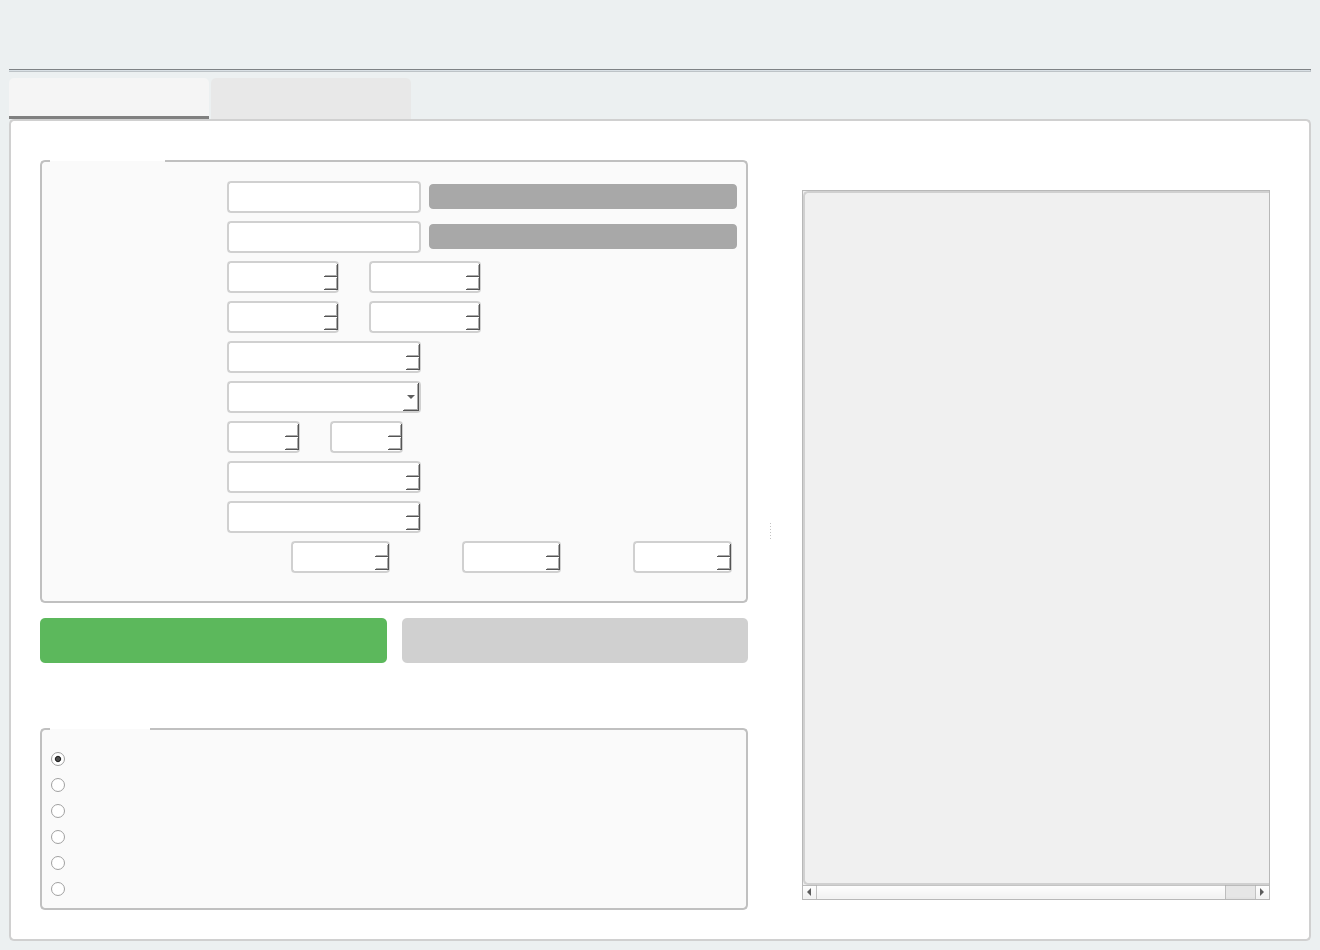
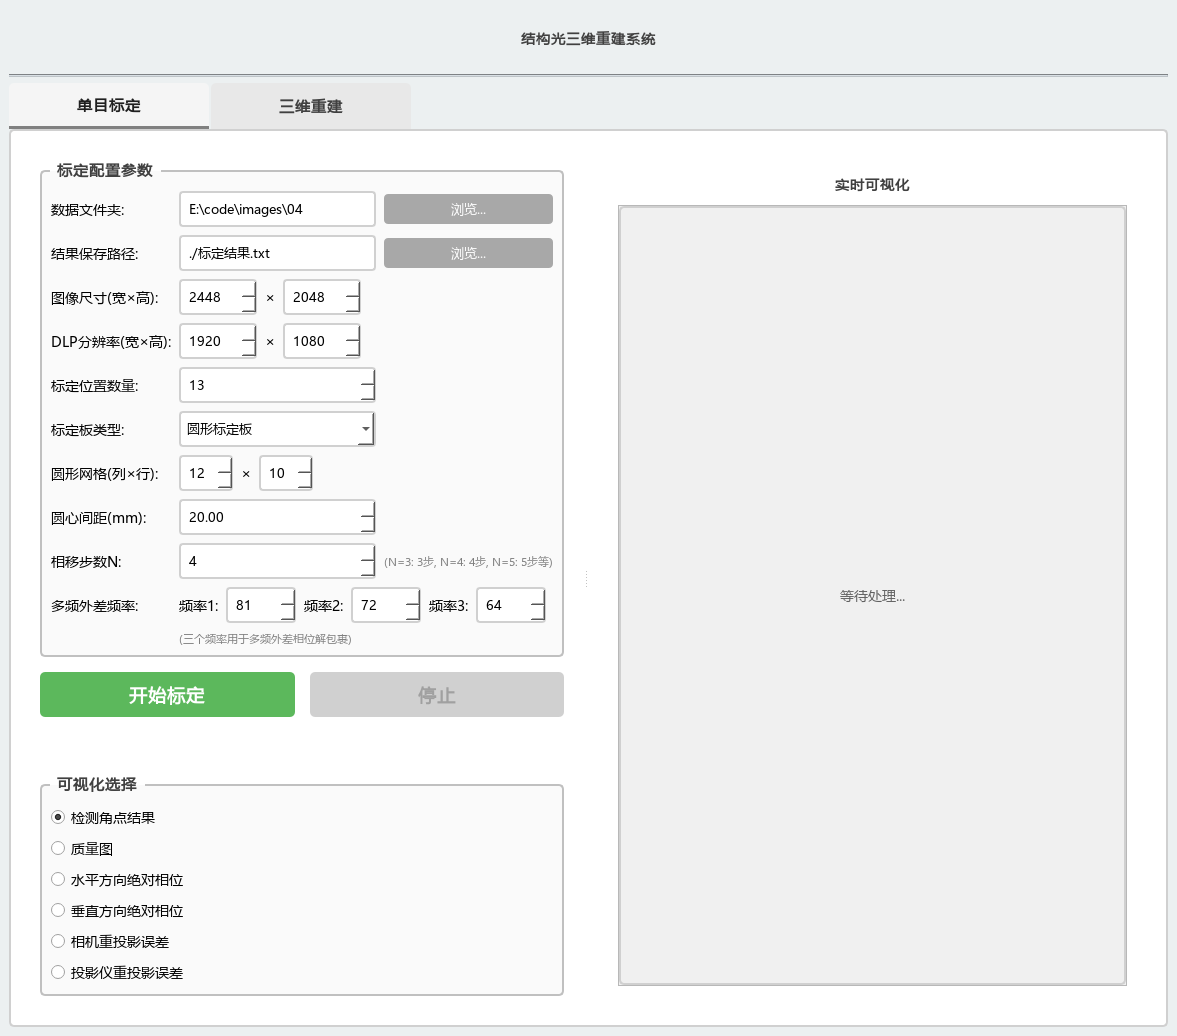
Fix demo UI screenshots: register Chinese font for offscreen Qt rendering and expand full UI content
- Root cause: Qt offscreen platform never rasterized any glyphs on this
  machine, so the captured UIs showed buttons/panels but no text and looked
  half-empty; additionally scroll-area content was clipped by window size.
- Register C:\Windows\Fonts\msyh.ttc via QFontDatabase and set Microsoft
  YaHei as the app font so labels render; expand every QScrollArea to its
  content sizeHint and resize the window to the current tab sizeHint before
  grabbing, so the full calibration/reconstruction forms are visible.
- Wrap the four UI screenshots in click-to-open links so visitors can view
  the complete image at full resolution.

Constraint: regeneration requires this Windows machine's font file; script
lives in tools/demo-assets-gen (gitignored).
Rejected: HTML/CSS mockups of the UIs | real screenshots remain truthful to
the shipped apps once fonts render.
Confidence: high
Scope-risk: narrow
Directive: Re-run tools/demo-assets-gen/_gen_capture_ui.py if the UI code or
fonts change; verify dark-pixel coverage before committing new captures.
Tested: Dark-pixel density in the four captures rose from ~0.3-0.6K to
7.5-13.3K; content now spans top/middle/bottom thirds; all 19 demo refs
resolve; local build succeeds.
Not-tested: Visual appearance on other platforms (captures are static PNGs).

diff --git a/source/demos/structured-light-3d-reconstruction/index.html b/source/demos/structured-light-3d-reconstruction/index.html
@@ -66,31 +66,31 @@
       </div>
       <div class="ui-gallery">
         <figure class="ui-figure">
-          <img class="ui-image" src="./assets/真实界面-单目标定.png" alt="结构光系统UI的单目标定界面">
+          <a href="./assets/真实界面-单目标定.png" target="_blank" rel="noopener"><img class="ui-image" src="./assets/真实界面-单目标定.png" alt="结构光系统UI的单目标定界面"></a>
           <figcaption>
             <strong class="figure-title">单目系统 · 单目标定</strong>
-            <span class="figure-caption">结构光系统UI v3.1：配置数据文件夹、DLP 分辨率、标定位置数、相移步数 N 与频率 81/72/64。</span>
+            <span class="figure-caption">结构光系统UI v3.1：配置数据文件夹、DLP 分辨率、标定位置数、相移步数 N 与频率 81/72/64。<em>点击图片可查看完整大图。</em></span>
           </figcaption>
         </figure>
         <figure class="ui-figure">
-          <img class="ui-image" src="./assets/真实界面-双目标定.png" alt="双目结构光系统UI的双目标定界面">
+          <a href="./assets/真实界面-双目标定.png" target="_blank" rel="noopener"><img class="ui-image" src="./assets/真实界面-双目标定.png" alt="双目结构光系统UI的双目标定界面"></a>
           <figcaption>
             <strong class="figure-title">双目系统 · 双目标定</strong>
-            <span class="figure-caption">双目结构光系统UI v4.1：配置左右相机图像文件夹与标定板参数，不需要 DLP 分辨率或条纹频率。</span>
+            <span class="figure-caption">双目结构光系统UI v4.1：配置左右相机图像文件夹与标定板参数，不需要 DLP 分辨率或条纹频率。<em>点击图片可查看完整大图。</em></span>
           </figcaption>
         </figure>
         <figure class="ui-figure">
-          <img class="ui-image" src="./assets/真实界面-单目重建.png" alt="结构光系统UI的三维重建界面">
+          <a href="./assets/真实界面-单目重建.png" target="_blank" rel="noopener"><img class="ui-image" src="./assets/真实界面-单目重建.png" alt="结构光系统UI的三维重建界面"></a>
           <figcaption>
             <strong class="figure-title">单目系统 · 三维重建</strong>
-            <span class="figure-caption">加载单目标定结果与一个条纹目录，配置深度范围、质量阈值、过滤参数。</span>
+            <span class="figure-caption">加载单目标定结果与一个条纹目录，配置深度范围、质量阈值、过滤参数。<em>点击图片可查看完整大图。</em></span>
           </figcaption>
         </figure>
         <figure class="ui-figure">
-          <img class="ui-image" src="./assets/真实界面-双目重建.png" alt="双目结构光系统UI的三维重建界面">
+          <a href="./assets/真实界面-双目重建.png" target="_blank" rel="noopener"><img class="ui-image" src="./assets/真实界面-双目重建.png" alt="双目结构光系统UI的三维重建界面"></a>
           <figcaption>
             <strong class="figure-title">双目系统 · 三维重建</strong>
-            <span class="figure-caption">加载双目标定结果与左右两个条纹目录，其余重建配置与单目一致。</span>
+            <span class="figure-caption">加载双目标定结果与左右两个条纹目录，其余重建配置与单目一致。<em>点击图片可查看完整大图。</em></span>
           </figcaption>
         </figure>
       </div>
